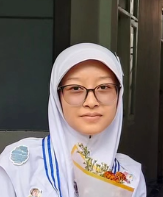
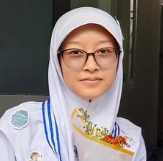
first commit

diff --git a/index.html b/index.html
@@ -81,7 +81,7 @@
         />
         <img src="img/hat.svg" alt="hat" class="hat" />
         <div class="wish">
-          <h3 class="wish-hbd">Happy Birthday, Una!</h3>
+          <h3 class="wish-hbd">Happy Birthday!</h3>
           <h5 id="wishText">May the happiness always be with you! ;)</h5>
         </div>
       </div>

diff --git a/script/main.js b/script/main.js
@@ -100,7 +100,7 @@ function playMusicOption() {
 const image = document.getElementById('imagePath');
 
 if (image) {
-    image.src = './img/cika.jpg';
+    image.src = './img/una.png';
 }
 
 
